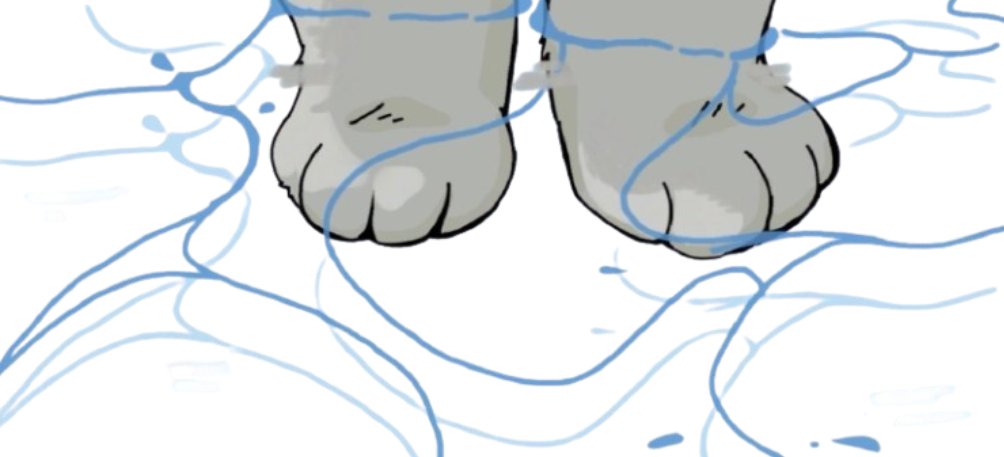
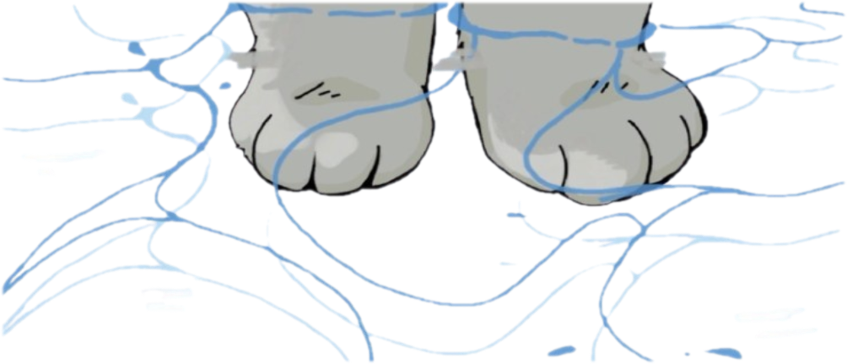
Update

diff --git a/Lecture8.html b/Lecture8.html
@@ -280,6 +280,11 @@ imageio.mimsave(os.path.join(mydir, 'InertialOscillations.gif'), images, loop=0)
 </div>
 <img src="Figures/Lecture8_InertialOscillations.gif" alt="InertialOscillations" style="margin-top: 1.5em; border: 1px solid #3c5c78; border-radius: 6px; max-width: 100%; display: block;">
 
+
+<h2>Shallow-Water Waves</h2>
+<img src="Figures/Lecture8_OceanCat.png" alt="OceanCat" style="margin-top: 1.5em; max-width: 70%; display: block;"> 
+
+
 <h2>Dispersion Relation</h2>
 A dispersion relation relates the wavelength or wavenumber \(k\) of a wave to its frequency \(\omega\).
 <ul>
@@ -828,7 +833,6 @@ The cause of changes in the PDO has yet to be identified and it may even be due 
 
 
 
-<img src="Figures/Lecture8_OceanCat.png" alt="OceanCat" style="margin-top: 1.5em; max-width: 100%; display: block;"> 
 
 
 <p><strong>Next</strong>: <a href="Lecture9.html">Lecture 9 – Atmospheric Thermodynamics</a></p>
